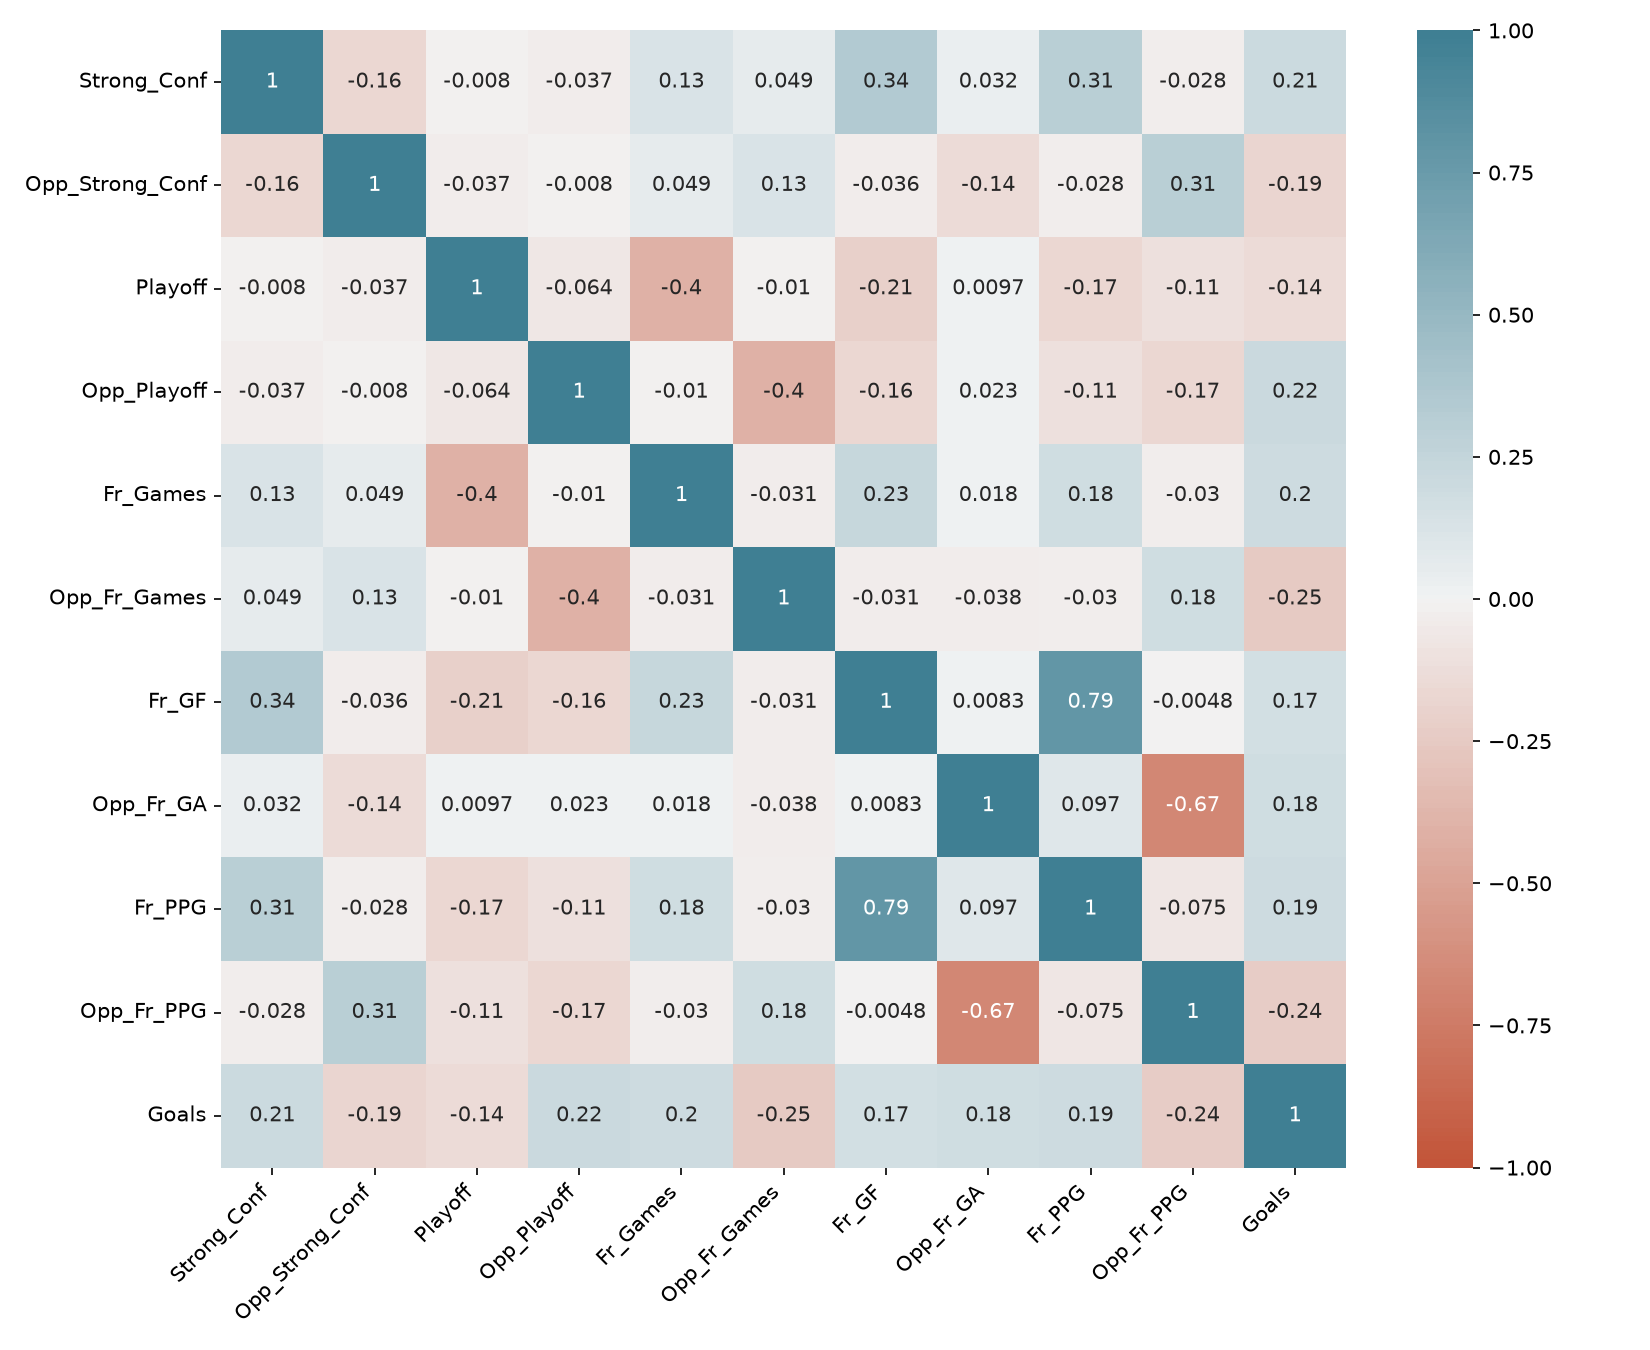
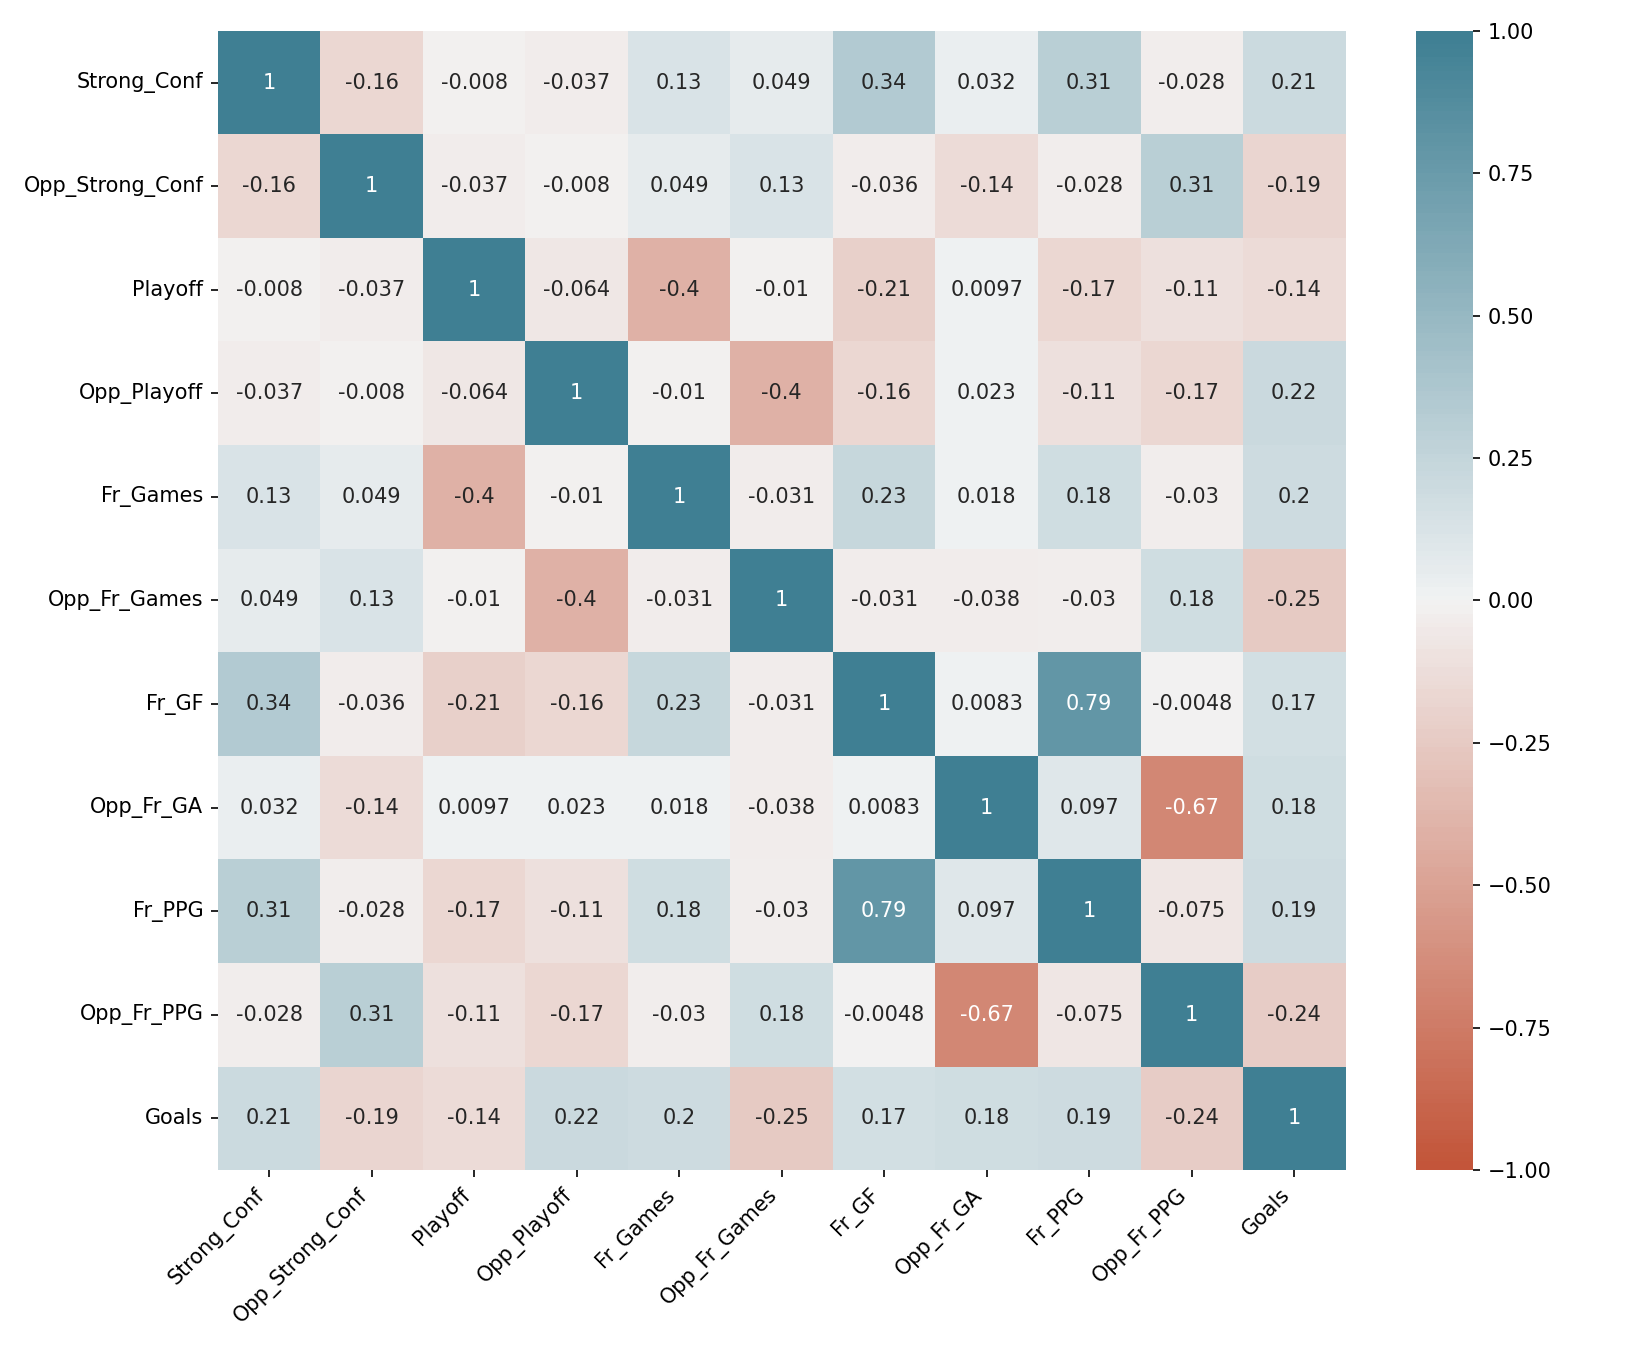
2.2: drop Fr_PPG and Opp_Fr_PPG (collinear, shared with 2.1) and save final dataset

diff --git a/2.2/regression_2_2.py b/2.2/regression_2_2.py
@@ -233,3 +233,11 @@ plt.xticks(rotation=45, horizontalalignment="right")
 plt.tight_layout()
 plt.savefig("../figures/2.2_heatmap.png", dpi=150)
 plt.show()
+
+#Fr_PPG is highly correlated (r > 0.7) with Fr_GF, and Opp_Fr_PPG is strongly correlated with Opp_Fr_GA
+#Friendly points per game is also already used in 2.1, and only 4 variables can be shared with 2.1
+#So drop Fr_PPG and Opp_Fr_PPG and keep the goal based friendly variables
+print("Fr_PPG vs Fr_GF:", corr["Fr_PPG"]["Fr_GF"])
+print("Opp_Fr_PPG vs Opp_Fr_GA:", corr["Opp_Fr_PPG"]["Opp_Fr_GA"])
+data = data.drop(["Fr_PPG", "Opp_Fr_PPG"], axis=1)
+data.to_csv("../data/processed/regression_2_2_dataset.csv", index=False)
